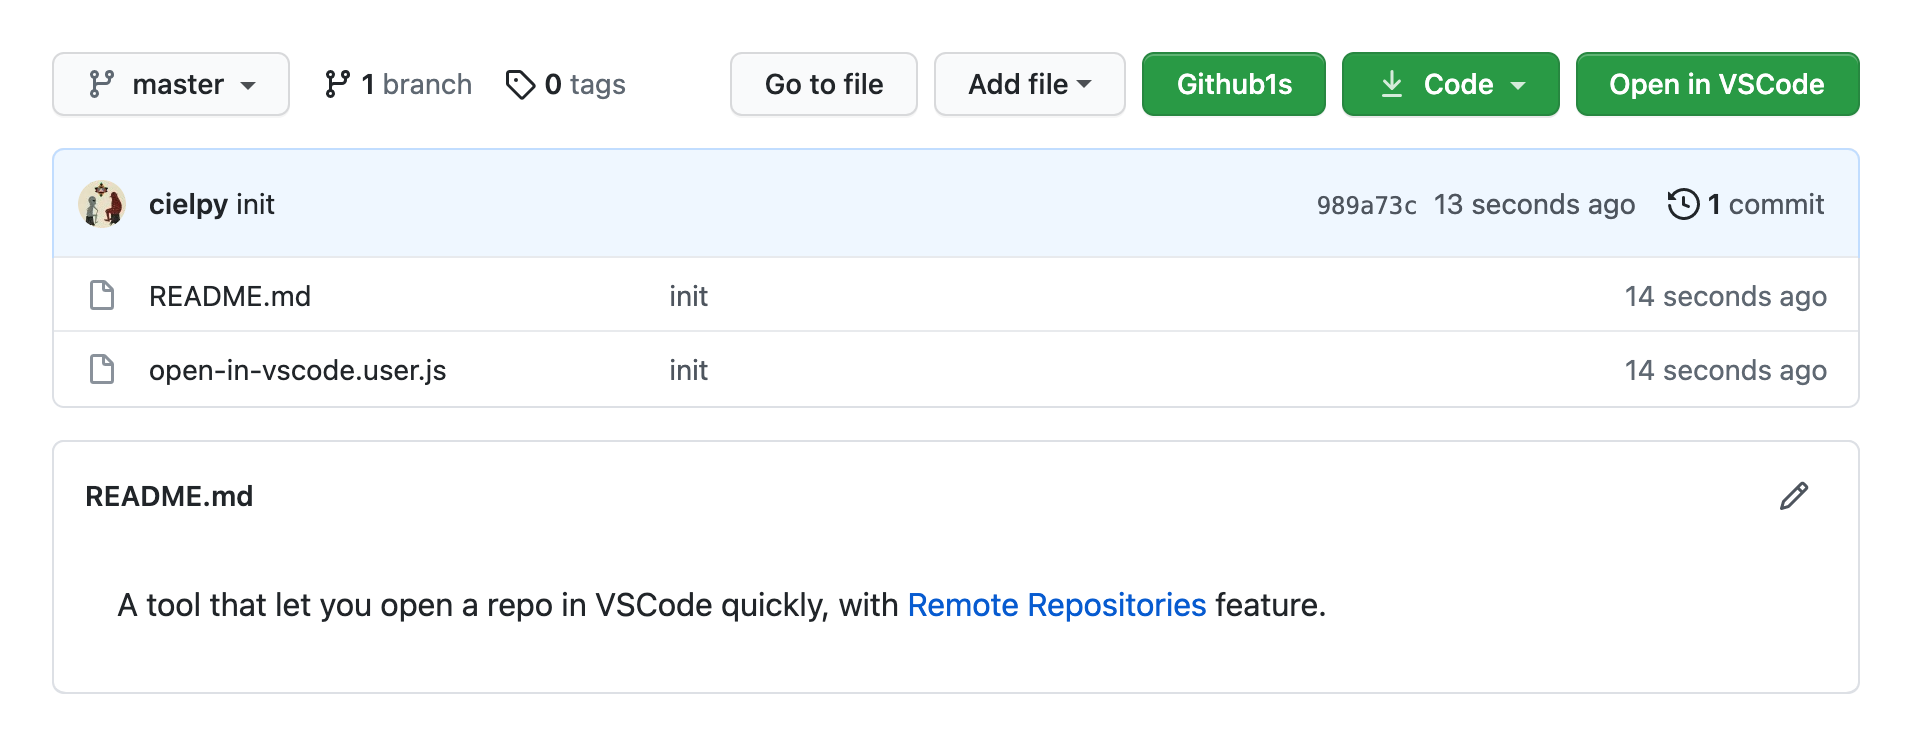
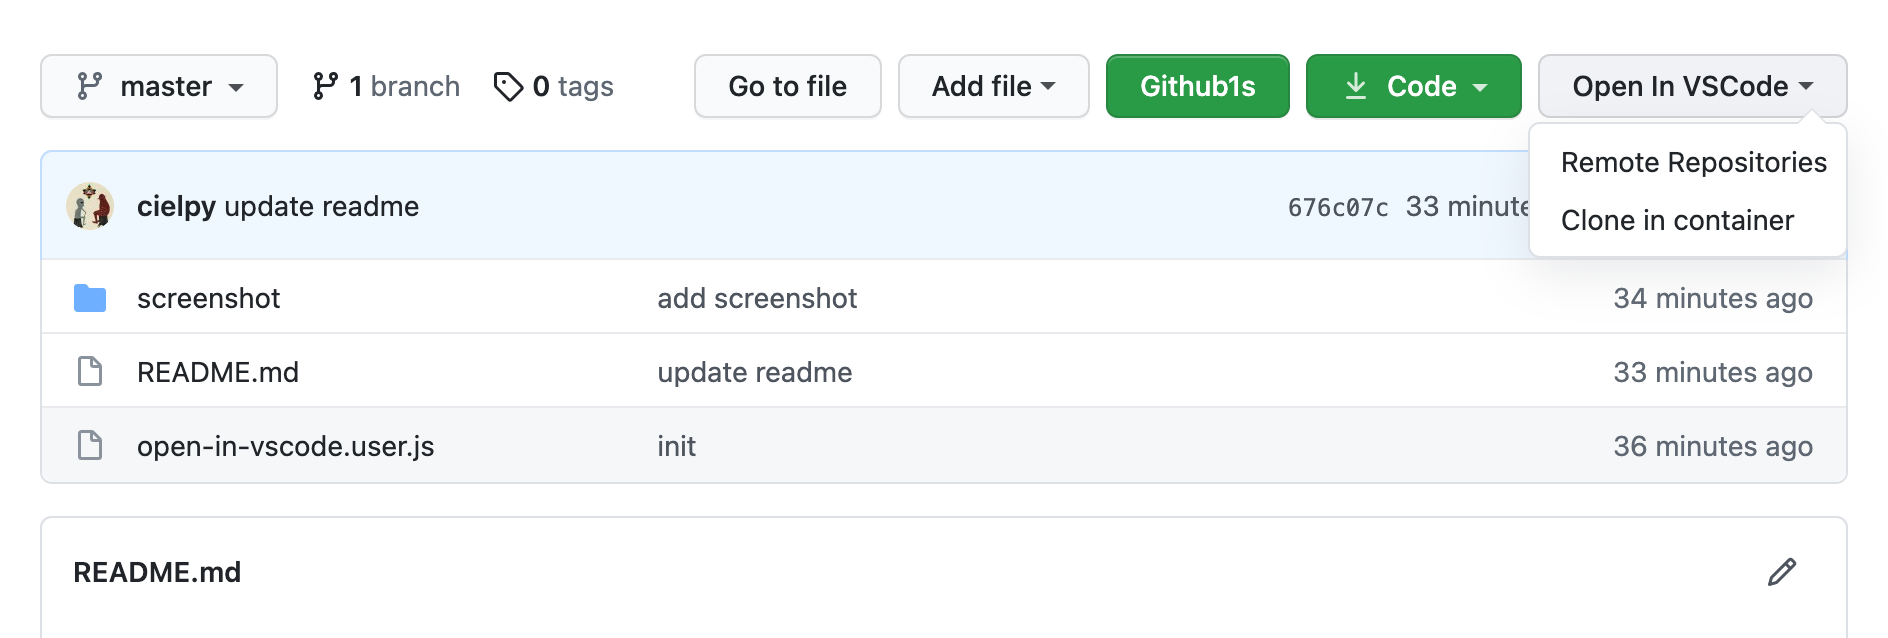
support clone in container

diff --git a/open-in-vscode.user.js b/open-in-vscode.user.js
@@ -3,14 +3,43 @@
 // @namespace   https://github.com/cielpy
 // @match       https://github.com/*
 // @grant       none
-// @version     1.0
+// @version     1.1
 // @author      cielpy
 // @description 2021/7/9下午6:33:36
 // @require      https://cdn.jsdelivr.net/npm/jquery@3.6.0/dist/jquery.slim.min.js
 // ==/UserScript==
 (function () {
-    const p = 'url=' + location.href;
-    const url = 'vscode://github.remotehub/open?' + encodeURIComponent(p);
-    $('div.file-navigation.mb-3.d-flex.flex-items-start').append(`<a class="btn ml-2 d-none d-md-block" style="background: #2ea44f; color: #ffffff;" target="_blank" href=${url} id="open_in_vscode">Open in VSCode</a>`)
-  }())
+  const p = 'url=' + location.href;
+  const url = 'vscode://github.remotehub/open?' + encodeURIComponent(p);
+  const cUrl = `vscode://ms-vscode-remote.remote-containers/cloneInVolume?url=${location.href}`;
+  const e = `<details data-view-component="true" class="details-overlay details-reset position-relative d-block">
+  <summary role="button" data-view-component="true" class="btn ml-2">
   
+          <span class="d-none d-md-flex flex-items-center">
+          Open In VSCode
+          <span class="dropdown-caret ml-1"></span>
+        </span>
+        <span class="d-inline-block d-md-none">
+          <svg aria-label="More options" role="img" viewBox="0 0 16 16" version="1.1" data-view-component="true" height="16" width="16" class="octicon octicon-kebab-horizontal">
+    <path d="M8 9a1.5 1.5 0 100-3 1.5 1.5 0 000 3zM1.5 9a1.5 1.5 0 100-3 1.5 1.5 0 000 3zm13 0a1.5 1.5 0 100-3 1.5 1.5 0 000 3z"></path>
+</svg>
+        </span>
+
+  
+
+</summary>
+  <div data-view-component="true">        <ul class="dropdown-menu dropdown-menu-sw">
+            <li class="d-block d-md-none dropdown-divider" role="none"></li>
+            <li><a href="${url}" class="dropdown-item">
+Remote Repositories
+</a></li>
+
+            <li><a href="${cUrl}" class="dropdown-item">
+            Clone in container
+</a></li>
+
+        </ul>
+</div>
+</details>`
+  $('div.file-navigation.mb-3.d-flex.flex-items-start').append(e)
+}())
